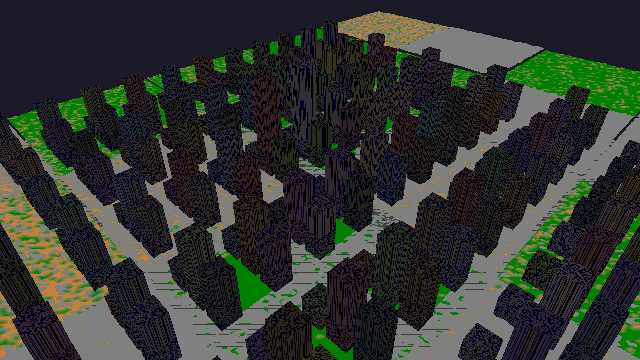
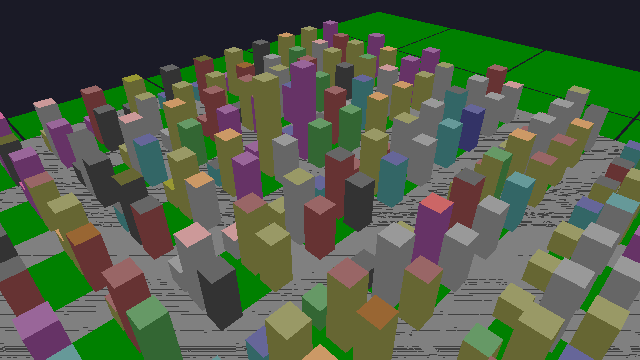
Fix city scene striping and ground layering

diff --git a/citybuilder/rendering/renderer.py b/citybuilder/rendering/renderer.py
@@ -72,6 +72,7 @@ struct VertexOutput {
     @builtin(position) position: vec4f,
     @location(0) color: vec4f,
     @location(1) uv: vec2f,
+    @location(2) normal: vec3f,
 };
 @vertex
 fn vs_main(@location(0) pos: vec3f,
@@ -84,6 +85,7 @@ fn vs_main(@location(0) pos: vec3f,
     output.position = clip;
     output.color = color;
     output.uv = uv;
+    output.normal = normal;
     return output;
 }
 """
@@ -96,12 +98,19 @@ struct FragmentOutput {
 };
 @fragment
 fn fs_main(@location(0) color: vec4f,
-           @location(1) uv: vec2f) -> FragmentOutput {
+           @location(1) uv: vec2f,
+           @location(2) normal: vec3f) -> FragmentOutput {
+    // Keep the texture binding alive for the data-driven material path, but
+    // use a readable low-frequency palette for the first playable scene.
+    // Sampling the tiled placeholder directly made every facade collapse into
+    // dense diagonal stripes at the game's low internal resolution.
     var texel = textureSample(tex_array, tex_sampler, uv, 0);
-    var levels = 4.0;
-    var quantized = floor(texel.rgb * levels) / levels;
+    var light = max(dot(normalize(normal), normalize(vec3f(-0.45, 0.85, 0.25))), 0.25);
+    var base = color.rgb * (0.55 + 0.45 * light);
+    var levels = 5.0;
+    var quantized = floor(base * levels) / levels;
     var output: FragmentOutput;
-    output.color = vec4f(quantized * color.rgb, color.a * texel.a);
+    output.color = vec4f(quantized, color.a * texel.a);
     return output;
 }
 """
@@ -229,10 +238,14 @@ def _segment_ribbon(seg, steps: int = 12, width: float = 6.0):
         nx, nz = tz, -tx  # normal
         color = (0.5, 0.5, 0.5, 1.0)  # gray road
         # quad: p0-left, p0-right, p1-right, p1-left
-        v00 = add(p0[0] - nx * half, 0.0, p0[1] - nz * half, *color)
-        v01 = add(p0[0] + nx * half, 0.0, p0[1] + nz * half, *color)
-        v11 = add(p1[0] + nx * half, 0.0, p1[1] + nz * half, *color)
-        v10 = add(p1[0] - nx * half, 0.0, p1[1] - nz * half, *color)
+        # Keep roads decisively above the flat terrain surface.  Drawing both
+        # at y=0 makes the depth buffer alternate between the two coplanar
+        # meshes, producing the long diagonal/zebra artifacts seen in-game.
+        road_y = 0.16
+        v00 = add(p0[0] - nx * half, road_y, p0[1] - nz * half, *color)
+        v01 = add(p0[0] + nx * half, road_y, p0[1] + nz * half, *color)
+        v11 = add(p1[0] + nx * half, road_y, p1[1] + nz * half, *color)
+        v10 = add(p1[0] - nx * half, road_y, p1[1] - nz * half, *color)
         idx.extend([v00, v01, v11, v00, v11, v10])
     vertices = np.array(verts, dtype=np.float32).reshape(-1, 7)
     indices = np.array(idx, dtype=np.uint32)
@@ -358,8 +371,10 @@ class Renderer:
                       "targets": [{"format": "bgra8unorm"}]},
             primitive={"topology": "triangle-list"},
             depth_stencil={"format": "depth24plus",
-                            "depth_write_enabled": True,
-                            "depth_compare": "less"},
+                            # Crossing ribbons occupy the same plane at
+                            # intersections, so roads are an overlay layer.
+                            "depth_write_enabled": False,
+                            "depth_compare": "always"},
         )
 
         bs = device.create_shader_module(

diff --git a/citybuilder/worldgen/__init__.py b/citybuilder/worldgen/__init__.py
@@ -18,10 +18,16 @@ def generate_chunk(cx: int, cy: int, seed: int, chunk_size: int = 64) -> np.ndar
 
     h = int(hashlib.sha256(f"{seed}:{cx}:{cy}".encode()).hexdigest()[:16], 16)
     rng = np.random.default_rng(h % (2**32))
-    # Smooth-ish placeholder terrain: a few sine waves + noise.
+    # Keep the first playable city on a stable ground plane.  The earlier
+    # placeholder varied from below zero to almost two world units, while
+    # roads and building foundations were flat; that caused roads to dive in
+    # and out of the terrain and read as diagonal geometry corruption.  Leave
+    # only a gentle variation for a little visual breakup until roads can
+    # conform to a fully featured heightmap.
     xs = np.linspace(0, 4, chunk_size, dtype=np.float32)
     ys = np.linspace(0, 4, chunk_size, dtype=np.float32)
     X, Y = np.meshgrid(xs, ys)
-    hmap = (np.sin(X + h * 0.01) + np.cos(Y * 1.3 + h * 0.01)) * 0.5 + 0.5
-    hmap += 0.2 * rng.normal(size=(chunk_size, chunk_size)).astype(np.float32)
+    waves = (np.sin(X + h * 0.01) + np.cos(Y * 1.3 + h * 0.01)) * 0.5
+    hmap = 0.08 + 0.025 * waves
+    hmap += 0.01 * rng.normal(size=(chunk_size, chunk_size)).astype(np.float32)
     return hmap.astype(np.float32)

diff --git a/tests/test_chunks.py b/tests/test_chunks.py
@@ -20,6 +20,14 @@ def test_chunk_different_seed_different_heightmap():
                               m2.ensure(0, 0).heightmap)
 
 
+def test_placeholder_ground_stays_below_road_overlay():
+    chunk = ChunkManager(seed=42, chunk_size=32).ensure(0, 0)
+    # The first playable scene uses flat roads at y=0.16.  Keep placeholder
+    # terrain below that layer until roads can conform to real terrain.
+    assert float(chunk.heightmap.min()) > 0.0
+    assert float(chunk.heightmap.max()) < 0.16
+
+
 def test_update_loads_around_camera():
     import numpy as np
     m = ChunkManager(seed=7, chunk_size=16, max_chunks=100)
@@ -56,4 +64,3 @@ def test_chunk_mesh_world_offset():
     # first vertex = lower-left corner of the chunk
     assert verts[0, 0] == 8.0   # x = cx*size
     assert verts[0, 2] == 16.0  # z = cy*size
-

diff --git a/PROGRESS.md b/PROGRESS.md
@@ -11,13 +11,15 @@
 - Implemented independent per-chunk static terrain GPU meshes. Each visible chunk has its own vertex/index buffers and draw call, so future streaming edits need not invalidate the entire terrain scene.
 - Expanded the deterministic demo to an 84-segment 7x7 road grid with 216 varied procedural buildings across the blocks.
 - Fixed the interactive debug overlay: the bitmap HUD was incorrectly mapped over a fullscreen quad, stretching green glyphs and pixels across the scene. It now renders only the written bitmap region at crisp 2x scale in the top-left.
-- Current automated result: 46 tests passed, screenshots rendered at 0°, 45°, and 90°, and the 12-angle rotation sweep passed. `scripts/check_all.sh` passes.
+- Replaced the tiled placeholder facade texture in the first scene with readable banded building colors and face lighting; the texture binding remains available for later material work.
+- Stabilized the first playable ground layer: placeholder terrain is kept below the road overlay, roads are lifted above terrain, and road depth writes are disabled so grid intersections do not fight in the depth buffer.
+- Exercised the real interactive RenderCanvas loop under a virtual X display without runtime errors. Current automated result: 47 tests passed, screenshots rendered at 0°, 45°, and 90°, and the 12-angle rotation sweep passed. `scripts/check_all.sh` passes.
 
 ## Broken
 
 - The dense demo is a static showcase; zoning-driven growth and citizen simulation are not yet connected to the visible buildings.
-- The interactive presentation still needs the M1 visual pass: outlines, banded lighting, palette lookup, texel snapping, and a player-facing HUD rather than only debug counters.
-- GUI window mapping remains compositor-dependent; headless rendering is the reliable verification path in this environment.
+- The interactive presentation still needs the remaining M1 visual pass: outlines, palette lookup, texel snapping, and a player-facing HUD rather than only debug counters.
+- GUI window capture remains compositor-dependent; the interactive loop is smoke-tested under Xvfb and headless screenshots remain the reliable visual evidence in this environment.
 - M1.5 features are not implemented: terraforming, water/rivers, world-generation settings, per-city saves, and the map editor.
 - Building placement mode is currently a keyboard toggle only; it does not yet place a building from a mouse ghost preview.
 

diff --git a/docs/rendering-research.md b/docs/rendering-research.md
@@ -1,0 +1,10 @@
+# Rendering references used for the visual correction
+
+The current renderer was compared against these open-source projects on 2026-11-14:
+
+- [3d.city README](https://github.com/lo-th/3d.city) describes a 3D city builder using Three.js/WebGL2/WebGPU, custom shaders, textures, and 3D models. It separates the simulation engine from rendering through a worker boundary.
+- [OpenTTD `viewport.cpp`](https://raw.githubusercontent.com/OpenTTD/OpenTTD/master/src/viewport.cpp) shows a deliberate viewport transform and row/column traversal for landscape tiles. It computes visible map coordinates, draws the ground in deterministic order, then handles buildings and sortable sprites separately.
+- [OpenTTD `viewport_func.h`](https://raw.githubusercontent.com/OpenTTD/OpenTTD/master/src/viewport_func.h) exposes explicit viewport zoom, screen-to-tile translation, and sortable 3D sprite submission APIs.
+- [Unknown Horizons README](https://github.com/unknown-horizons/unknown-horizons) describes a 2D city-building/RTS architecture using a dedicated engine and data-driven content; it is useful as a separation-of-simulation-and-presentation reference, but not as a direct 3D renderer model.
+
+The relevant implementation lessons are: keep the ground representation stable and ordered, keep buildings as distinct depth-tested objects, make camera/viewport transforms explicit, and avoid high-frequency textures as a substitute for a readable pixel-art material. The user-provided screenshot showed long diagonal geometry/texture strips, so the first code correction targets the building material rather than adding more post-processing.
